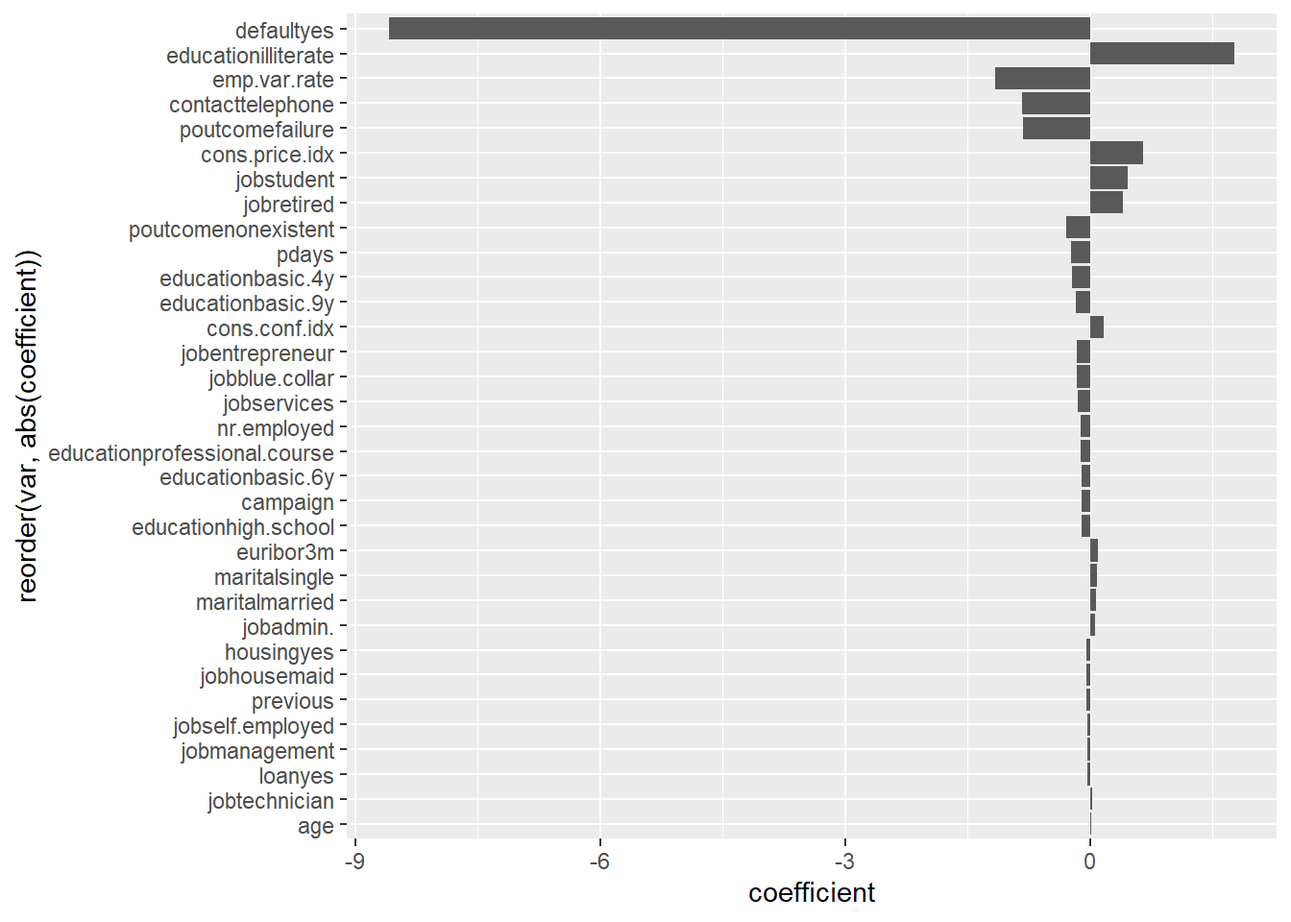
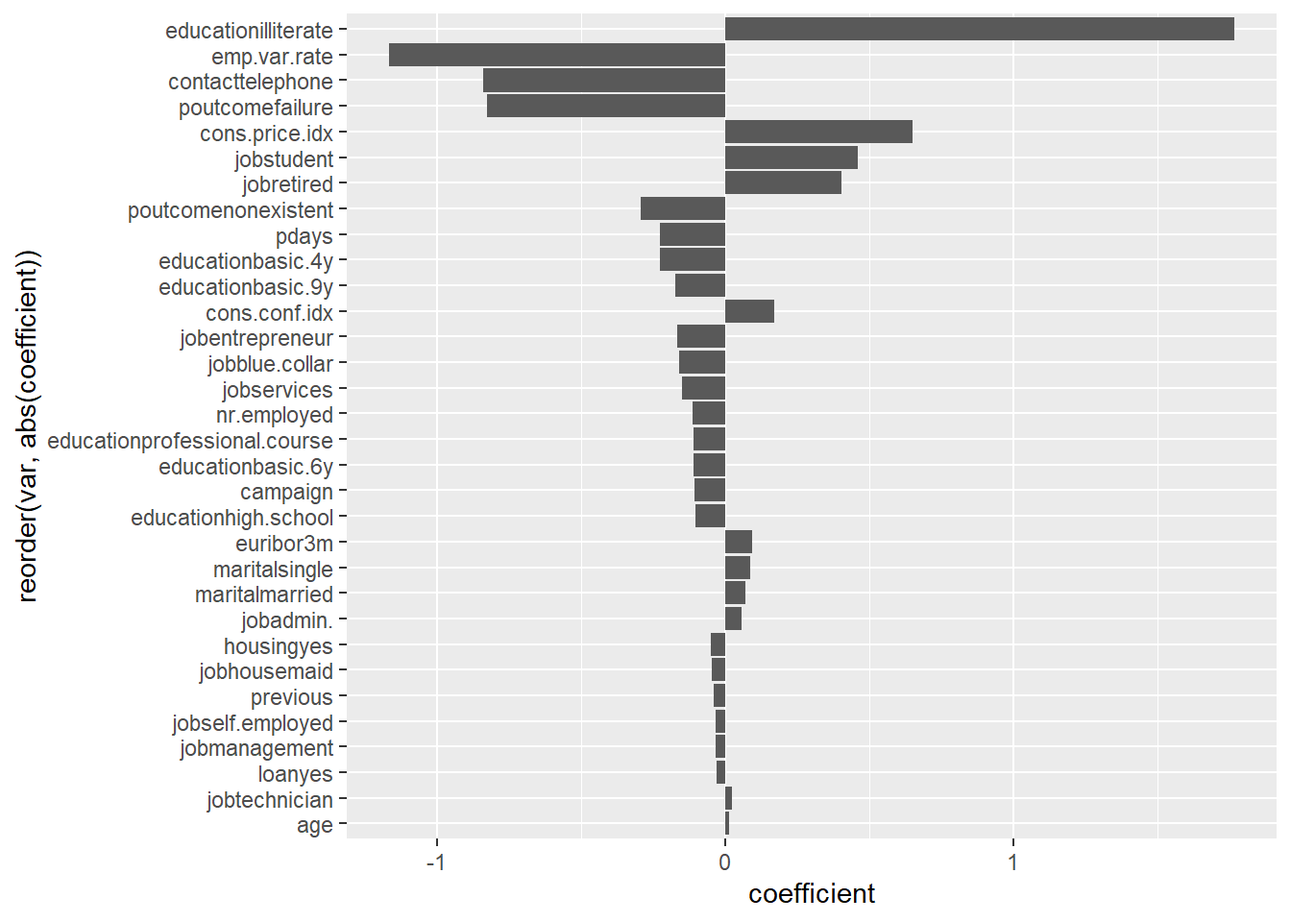
update

diff --git a/docs/logistic-regression.html b/docs/logistic-regression.html
@@ -105,13 +105,13 @@
             <section class="normal" id="section-">
 <div id="logistic-regression" class="section level1 hasAnchor" number="2">
 <h1><span class="header-section-number">Chapter 2</span> [Logistic Regression]<a href="logistic-regression.html#logistic-regression" class="anchor-section" aria-label="Anchor link to header"></a></h1>
-<p><img src="finalproj_files/figure-html/unnamed-chunk-5-1.png" width="672" />
+<p><img src="finalproj_files/figure-html/unnamed-chunk-4-1.png" width="672" />
 After the logistic regression models are built, we may access the feature importance by visualize the coefficient. The bar plot above shows the magnitude of significance for each variable with a descending order of their absolute value. It is obvious that the default value has the largest influence on the predicted probability. However, that’s mostly because of the default yes record in the data set according to the EDA part. Despite the default values, whether the person is illiterate, employment variable rate, whether the contacting is via telephone, and the outcome of previous campaign has remarkable impact on the prediction. However, the coefficient of default is too large that we actually can not assess the exact coefficient of variables by visualization; hence we may eliminate the default from the graph and get a new bar plot as follows.</p>
-<p><img src="finalproj_files/figure-html/unnamed-chunk-6-1.png" width="672" />
+<p><img src="finalproj_files/figure-html/unnamed-chunk-5-1.png" width="672" />
 From this plot, we may find that there are some variables that creates minor impact in our full regression model. Specifically speaking, in this plot,
 housingyes,, jobhousemaid, previous, jobself.employed, jobmanagement,loanyes, jobtechnician, and age have relatively small coefficient values. We will examine a reduced model without these listed variable in the following analysis.</p>
-<div class="plotly html-widget html-fill-item-overflow-hidden html-fill-item" id="htmlwidget-1ff8f7f988f083cb7554" style="width:672px;height:480px;"></div>
-<script type="application/json" data-for="htmlwidget-1ff8f7f988f083cb7554">{"x":{"data":[{"x":[1,0.99981301421092,0.992894540014959,0.959798055347794,0.860134629768138,0.62284966342558,0.454562453253553,0.387247569184742,0.334704562453254,0.291136873597607,0.256918474195961,0.243455497382199,0.232797307404637,0.213911742707554,0.18960359012715,0.169970082273747,0.152019446522064,0.132385938668661,0.118548990276739,0.107142857142857,0.0989154824233358,0.0959237097980554,0.0908750934928945,0.0869483919222139,0.0833956619296933,0.0794689603590127,0.0768511593118923,0.0740463724756918,0.0697456993268512,0.0667539267015707,0.0641361256544503,0.0613313388182498,0.0574046372475692,0.0544128646222887,0.0516080777860883,0.050299177262528,0.0486163051608078,0.0459985041136874,0.043941660433807,0.0413238593866866,0.0388930441286462,0.0362752430815258,0.0338444278234854,0.0327225130890052,0.0299177262528048,0.0286088257292446,0.0259910246821242,0.0241211667913239,0.0216903515332835,0.0200074794315632,0.018698578908003,0.0177636499626028,0.0173896783844428,0.0162677636499626,0.0157068062827225,0.0149588631264024,0.0138369483919222,0.0130890052356021,0.0119670905011219,0.0112191473448018,0.0102842183994016,0.00953627524308153,0.00897531787584144,0.00878833208676141,0.00841436050860135,0.00841436050860135,0.00804038893044129,0.00766641735228123,0.00766641735228123,0.00766641735228123,0.00710545998504114,0.00654450261780105,0.00617053103964099,0.0056095736724009,0.00504861630516081,0.00448765893792072,0.00411368735976066,0.00299177262528048,0.00261780104712042,0.00224382946896036,0.00149588631264024,0.00093492894540015,0.00037397157816006,0.00037397157816006,0.00018698578908003,0,0,0,0,0,0,0,0,0,0,0,0,0,0,0,0],"y":[1,1,0.997333333333333,0.996,0.965333333333333,0.893333333333333,0.821333333333333,0.792,0.761333333333333,0.732,0.717333333333333,0.708,0.697333333333333,0.678666666666667,0.654666666666667,0.628,0.606666666666667,0.585333333333333,0.564,0.552,0.533333333333333,0.514666666666667,0.496,0.492,0.486666666666667,0.474666666666667,0.464,0.457333333333333,0.448,0.441333333333333,0.436,0.428,0.416,0.404,0.394666666666667,0.386666666666667,0.378666666666667,0.365333333333333,0.358666666666667,0.349333333333333,0.334666666666667,0.324,0.317333333333333,0.312,0.302666666666667,0.289333333333333,0.276,0.262666666666667,0.249333333333333,0.236,0.222666666666667,0.214666666666667,0.208,0.201333333333333,0.193333333333333,0.186666666666667,0.178666666666667,0.173333333333333,0.168,0.168,0.162666666666667,0.158666666666667,0.156,0.150666666666667,0.149333333333333,0.141333333333333,0.141333333333333,0.133333333333333,0.129333333333333,0.125333333333333,0.12,0.112,0.1,0.096,0.0946666666666667,0.0853333333333333,0.076,0.0666666666666667,0.0626666666666667,0.0493333333333333,0.0373333333333333,0.0213333333333333,0.0133333333333333,0.008,0.00666666666666667,0.00266666666666667,0.00133333333333333,0,0,0,0,0,0,0,0,0,0,0,0,0,0],"text":["fpr: 1.0000000000<br />tpr: 1.000000000<br />label: 0.00","fpr: 0.9998130142<br />tpr: 1.000000000<br />label: 0.01","fpr: 0.9928945400<br />tpr: 0.997333333<br />label: 0.02","fpr: 0.9597980553<br />tpr: 0.996000000<br />label: 0.03","fpr: 0.8601346298<br />tpr: 0.965333333<br />label: 0.04","fpr: 0.6228496634<br />tpr: 0.893333333<br />label: 0.05","fpr: 0.4545624533<br />tpr: 0.821333333<br />label: 0.06","fpr: 0.3872475692<br />tpr: 0.792000000<br />label: 0.07","fpr: 0.3347045625<br />tpr: 0.761333333<br />label: 0.08","fpr: 0.2911368736<br />tpr: 0.732000000<br />label: 0.09","fpr: 0.2569184742<br />tpr: 0.717333333<br />label: 0.10","fpr: 0.2434554974<br />tpr: 0.708000000<br />label: 0.11","fpr: 0.2327973074<br />tpr: 0.697333333<br />label: 0.12","fpr: 0.2139117427<br />tpr: 0.678666667<br />label: 0.13","fpr: 0.1896035901<br />tpr: 0.654666667<br />label: 0.14","fpr: 0.1699700823<br />tpr: 0.628000000<br />label: 0.15","fpr: 0.1520194465<br />tpr: 0.606666667<br />label: 0.16","fpr: 0.1323859387<br />tpr: 0.585333333<br />label: 0.17","fpr: 0.1185489903<br />tpr: 0.564000000<br />label: 0.18","fpr: 0.1071428571<br />tpr: 0.552000000<br />label: 0.19","fpr: 0.0989154824<br />tpr: 0.533333333<br />label: 0.20","fpr: 0.0959237098<br />tpr: 0.514666667<br />label: 0.21","fpr: 0.0908750935<br />tpr: 0.496000000<br />label: 0.22","fpr: 0.0869483919<br />tpr: 0.492000000<br />label: 0.23","fpr: 0.0833956619<br />tpr: 0.486666667<br />label: 0.24","fpr: 0.0794689604<br />tpr: 0.474666667<br />label: 0.25","fpr: 0.0768511593<br />tpr: 0.464000000<br />label: 0.26","fpr: 0.0740463725<br />tpr: 0.457333333<br />label: 0.27","fpr: 0.0697456993<br />tpr: 0.448000000<br />label: 0.28","fpr: 0.0667539267<br />tpr: 0.441333333<br />label: 0.29","fpr: 0.0641361257<br />tpr: 0.436000000<br />label: 0.30","fpr: 0.0613313388<br />tpr: 0.428000000<br />label: 0.31","fpr: 0.0574046372<br />tpr: 0.416000000<br />label: 0.32","fpr: 0.0544128646<br />tpr: 0.404000000<br />label: 0.33","fpr: 0.0516080778<br />tpr: 0.394666667<br />label: 0.34","fpr: 0.0502991773<br />tpr: 0.386666667<br />label: 0.35","fpr: 0.0486163052<br />tpr: 0.378666667<br />label: 0.36","fpr: 0.0459985041<br />tpr: 0.365333333<br />label: 0.37","fpr: 0.0439416604<br />tpr: 0.358666667<br />label: 0.38","fpr: 0.0413238594<br />tpr: 0.349333333<br />label: 0.39","fpr: 0.0388930441<br />tpr: 0.334666667<br />label: 0.40","fpr: 0.0362752431<br />tpr: 0.324000000<br />label: 0.41","fpr: 0.0338444278<br />tpr: 0.317333333<br />label: 0.42","fpr: 0.0327225131<br />tpr: 0.312000000<br />label: 0.43","fpr: 0.0299177263<br />tpr: 0.302666667<br />label: 0.44","fpr: 0.0286088257<br />tpr: 0.289333333<br />label: 0.45","fpr: 0.0259910247<br />tpr: 0.276000000<br />label: 0.46","fpr: 0.0241211668<br />tpr: 0.262666667<br />label: 0.47","fpr: 0.0216903515<br />tpr: 0.249333333<br />label: 0.48","fpr: 0.0200074794<br />tpr: 0.236000000<br />label: 0.49","fpr: 0.0186985789<br />tpr: 0.222666667<br />label: 0.50","fpr: 0.0177636500<br />tpr: 0.214666667<br />label: 0.51","fpr: 0.0173896784<br />tpr: 0.208000000<br />label: 0.52","fpr: 0.0162677636<br />tpr: 0.201333333<br />label: 0.53","fpr: 0.0157068063<br />tpr: 0.193333333<br />label: 0.54","fpr: 0.0149588631<br />tpr: 0.186666667<br />label: 0.55","fpr: 0.0138369484<br />tpr: 0.178666667<br />label: 0.56","fpr: 0.0130890052<br />tpr: 0.173333333<br />label: 0.57","fpr: 0.0119670905<br />tpr: 0.168000000<br />label: 0.58","fpr: 0.0112191473<br />tpr: 0.168000000<br />label: 0.59","fpr: 0.0102842184<br />tpr: 0.162666667<br />label: 0.60","fpr: 0.0095362752<br />tpr: 0.158666667<br />label: 0.61","fpr: 0.0089753179<br />tpr: 0.156000000<br />label: 0.62","fpr: 0.0087883321<br />tpr: 0.150666667<br />label: 0.63","fpr: 0.0084143605<br />tpr: 0.149333333<br />label: 0.64","fpr: 0.0084143605<br />tpr: 0.141333333<br />label: 0.65","fpr: 0.0080403889<br />tpr: 0.141333333<br />label: 0.66","fpr: 0.0076664174<br />tpr: 0.133333333<br />label: 0.67","fpr: 0.0076664174<br />tpr: 0.129333333<br />label: 0.68","fpr: 0.0076664174<br />tpr: 0.125333333<br />label: 0.69","fpr: 0.0071054600<br />tpr: 0.120000000<br />label: 0.70","fpr: 0.0065445026<br />tpr: 0.112000000<br />label: 0.71","fpr: 0.0061705310<br />tpr: 0.100000000<br />label: 0.72","fpr: 0.0056095737<br />tpr: 0.096000000<br />label: 0.73","fpr: 0.0050486163<br />tpr: 0.094666667<br />label: 0.74","fpr: 0.0044876589<br />tpr: 0.085333333<br />label: 0.75","fpr: 0.0041136874<br />tpr: 0.076000000<br />label: 0.76","fpr: 0.0029917726<br />tpr: 0.066666667<br />label: 0.77","fpr: 0.0026178010<br />tpr: 0.062666667<br />label: 0.78","fpr: 0.0022438295<br />tpr: 0.049333333<br />label: 0.79","fpr: 0.0014958863<br />tpr: 0.037333333<br />label: 0.80","fpr: 0.0009349289<br />tpr: 0.021333333<br />label: 0.81","fpr: 0.0003739716<br />tpr: 0.013333333<br />label: 0.82","fpr: 0.0003739716<br />tpr: 0.008000000<br />label: 0.83","fpr: 0.0001869858<br />tpr: 0.006666667<br />label: 0.84","fpr: 0.0000000000<br />tpr: 0.002666667<br />label: 0.85","fpr: 0.0000000000<br />tpr: 0.001333333<br />label: 0.86","fpr: 0.0000000000<br />tpr: 0.000000000<br />label: 0.87","fpr: 0.0000000000<br />tpr: 0.000000000<br />label: 0.88","fpr: 0.0000000000<br />tpr: 0.000000000<br />label: 0.89","fpr: 0.0000000000<br />tpr: 0.000000000<br />label: 0.90","fpr: 0.0000000000<br />tpr: 0.000000000<br />label: 0.91","fpr: 0.0000000000<br />tpr: 0.000000000<br />label: 0.92","fpr: 0.0000000000<br />tpr: 0.000000000<br />label: 0.93","fpr: 0.0000000000<br />tpr: 0.000000000<br />label: 0.94","fpr: 0.0000000000<br />tpr: 0.000000000<br />label: 0.95","fpr: 0.0000000000<br />tpr: 0.000000000<br />label: 0.96","fpr: 0.0000000000<br />tpr: 0.000000000<br />label: 0.97","fpr: 0.0000000000<br />tpr: 0.000000000<br />label: 0.98","fpr: 0.0000000000<br />tpr: 0.000000000<br />label: 0.99","fpr: 0.0000000000<br />tpr: 0.000000000<br />label: 1.00"],"type":"scatter","mode":"markers+lines","marker":{"autocolorscale":false,"color":"rgba(0,0,0,1)","opacity":1,"size":5.66929133858268,"symbol":"circle","line":{"width":1.88976377952756,"color":"rgba(0,0,0,1)"}},"hoveron":"points","showlegend":false,"xaxis":"x","yaxis":"y","hoverinfo":"text","line":{"width":1.88976377952756,"color":"rgba(0,0,0,1)","dash":"solid"},"frame":null},{"showlegend":false,"xaxis":"x","yaxis":"y","hoverinfo":"text","mode":"","frame":null}],"layout":{"margin":{"t":26.2283105022831,"r":7.30593607305936,"b":40.1826484018265,"l":48.9497716894977},"plot_bgcolor":"rgba(235,235,235,1)","paper_bgcolor":"rgba(255,255,255,1)","font":{"color":"rgba(0,0,0,1)","family":"","size":14.6118721461187},"xaxis":{"domain":[0,1],"automargin":true,"type":"linear","autorange":false,"range":[-0.05,1.05],"tickmode":"array","ticktext":["0.00","0.25","0.50","0.75","1.00"],"tickvals":[0,0.25,0.5,0.75,1],"categoryorder":"array","categoryarray":["0.00","0.25","0.50","0.75","1.00"],"nticks":null,"ticks":"outside","tickcolor":"rgba(51,51,51,1)","ticklen":3.65296803652968,"tickwidth":0.66417600664176,"showticklabels":true,"tickfont":{"color":"rgba(77,77,77,1)","family":"","size":11.689497716895},"tickangle":-0,"showline":false,"linecolor":null,"linewidth":0,"showgrid":true,"gridcolor":"rgba(255,255,255,1)","gridwidth":0.66417600664176,"zeroline":false,"anchor":"y","title":{"text":"fpr","font":{"color":"rgba(0,0,0,1)","family":"","size":14.6118721461187}},"hoverformat":".2f"},"yaxis":{"domain":[0,1],"automargin":true,"type":"linear","autorange":false,"range":[-0.05,1.05],"tickmode":"array","ticktext":["0.00","0.25","0.50","0.75","1.00"],"tickvals":[0,0.25,0.5,0.75,1],"categoryorder":"array","categoryarray":["0.00","0.25","0.50","0.75","1.00"],"nticks":null,"ticks":"outside","tickcolor":"rgba(51,51,51,1)","ticklen":3.65296803652968,"tickwidth":0.66417600664176,"showticklabels":true,"tickfont":{"color":"rgba(77,77,77,1)","family":"","size":11.689497716895},"tickangle":-0,"showline":false,"linecolor":null,"linewidth":0,"showgrid":true,"gridcolor":"rgba(255,255,255,1)","gridwidth":0.66417600664176,"zeroline":false,"anchor":"x","title":{"text":"tpr","font":{"color":"rgba(0,0,0,1)","family":"","size":14.6118721461187}},"hoverformat":".2f"},"shapes":[{"type":"rect","fillcolor":null,"line":{"color":null,"width":0,"linetype":[]},"yref":"paper","xref":"paper","x0":0,"x1":1,"y0":0,"y1":1}],"showlegend":false,"legend":{"bgcolor":"rgba(255,255,255,1)","bordercolor":"transparent","borderwidth":1.88976377952756,"font":{"color":"rgba(0,0,0,1)","family":"","size":11.689497716895}},"hovermode":"closest","barmode":"relative"},"config":{"doubleClick":"reset","modeBarButtonsToAdd":["hoverclosest","hovercompare"],"showSendToCloud":false},"source":"A","attrs":{"79682d927d82":{"x":{},"y":{},"label":{},"type":"scatter"},"79683b1c3556":{"x":{},"y":{},"label":{}},"7968485763c3":{"x":{},"y":{},"label":{}}},"cur_data":"79682d927d82","visdat":{"79682d927d82":["function (y) ","x"],"79683b1c3556":["function (y) ","x"],"7968485763c3":["function (y) ","x"]},"highlight":{"on":"plotly_click","persistent":false,"dynamic":false,"selectize":false,"opacityDim":0.2,"selected":{"opacity":1},"debounce":0},"shinyEvents":["plotly_hover","plotly_click","plotly_selected","plotly_relayout","plotly_brushed","plotly_brushing","plotly_clickannotation","plotly_doubleclick","plotly_deselect","plotly_afterplot","plotly_sunburstclick"],"base_url":"https://plot.ly"},"evals":[],"jsHooks":[]}</script>
+<div class="plotly html-widget html-fill-item-overflow-hidden html-fill-item" id="htmlwidget-45f9acc706e7623ea08e" style="width:672px;height:480px;"></div>
+<script type="application/json" data-for="htmlwidget-45f9acc706e7623ea08e">{"x":{"data":[{"x":[1,0.99981301421092,0.992894540014959,0.959798055347794,0.860134629768138,0.62284966342558,0.454562453253553,0.387247569184742,0.334704562453254,0.291136873597607,0.256918474195961,0.243455497382199,0.232797307404637,0.213911742707554,0.18960359012715,0.169970082273747,0.152019446522064,0.132385938668661,0.118548990276739,0.107142857142857,0.0989154824233358,0.0959237097980554,0.0908750934928945,0.0869483919222139,0.0833956619296933,0.0794689603590127,0.0768511593118923,0.0740463724756918,0.0697456993268512,0.0667539267015707,0.0641361256544503,0.0613313388182498,0.0574046372475692,0.0544128646222887,0.0516080777860883,0.050299177262528,0.0486163051608078,0.0459985041136874,0.043941660433807,0.0413238593866866,0.0388930441286462,0.0362752430815258,0.0338444278234854,0.0327225130890052,0.0299177262528048,0.0286088257292446,0.0259910246821242,0.0241211667913239,0.0216903515332835,0.0200074794315632,0.018698578908003,0.0177636499626028,0.0173896783844428,0.0162677636499626,0.0157068062827225,0.0149588631264024,0.0138369483919222,0.0130890052356021,0.0119670905011219,0.0112191473448018,0.0102842183994016,0.00953627524308153,0.00897531787584144,0.00878833208676141,0.00841436050860135,0.00841436050860135,0.00804038893044129,0.00766641735228123,0.00766641735228123,0.00766641735228123,0.00710545998504114,0.00654450261780105,0.00617053103964099,0.0056095736724009,0.00504861630516081,0.00448765893792072,0.00411368735976066,0.00299177262528048,0.00261780104712042,0.00224382946896036,0.00149588631264024,0.00093492894540015,0.00037397157816006,0.00037397157816006,0.00018698578908003,0,0,0,0,0,0,0,0,0,0,0,0,0,0,0,0],"y":[1,1,0.997333333333333,0.996,0.965333333333333,0.893333333333333,0.821333333333333,0.792,0.761333333333333,0.732,0.717333333333333,0.708,0.697333333333333,0.678666666666667,0.654666666666667,0.628,0.606666666666667,0.585333333333333,0.564,0.552,0.533333333333333,0.514666666666667,0.496,0.492,0.486666666666667,0.474666666666667,0.464,0.457333333333333,0.448,0.441333333333333,0.436,0.428,0.416,0.404,0.394666666666667,0.386666666666667,0.378666666666667,0.365333333333333,0.358666666666667,0.349333333333333,0.334666666666667,0.324,0.317333333333333,0.312,0.302666666666667,0.289333333333333,0.276,0.262666666666667,0.249333333333333,0.236,0.222666666666667,0.214666666666667,0.208,0.201333333333333,0.193333333333333,0.186666666666667,0.178666666666667,0.173333333333333,0.168,0.168,0.162666666666667,0.158666666666667,0.156,0.150666666666667,0.149333333333333,0.141333333333333,0.141333333333333,0.133333333333333,0.129333333333333,0.125333333333333,0.12,0.112,0.1,0.096,0.0946666666666667,0.0853333333333333,0.076,0.0666666666666667,0.0626666666666667,0.0493333333333333,0.0373333333333333,0.0213333333333333,0.0133333333333333,0.008,0.00666666666666667,0.00266666666666667,0.00133333333333333,0,0,0,0,0,0,0,0,0,0,0,0,0,0],"text":["fpr: 1.0000000000<br />tpr: 1.000000000<br />label: 0.00","fpr: 0.9998130142<br />tpr: 1.000000000<br />label: 0.01","fpr: 0.9928945400<br />tpr: 0.997333333<br />label: 0.02","fpr: 0.9597980553<br />tpr: 0.996000000<br />label: 0.03","fpr: 0.8601346298<br />tpr: 0.965333333<br />label: 0.04","fpr: 0.6228496634<br />tpr: 0.893333333<br />label: 0.05","fpr: 0.4545624533<br />tpr: 0.821333333<br />label: 0.06","fpr: 0.3872475692<br />tpr: 0.792000000<br />label: 0.07","fpr: 0.3347045625<br />tpr: 0.761333333<br />label: 0.08","fpr: 0.2911368736<br />tpr: 0.732000000<br />label: 0.09","fpr: 0.2569184742<br />tpr: 0.717333333<br />label: 0.10","fpr: 0.2434554974<br />tpr: 0.708000000<br />label: 0.11","fpr: 0.2327973074<br />tpr: 0.697333333<br />label: 0.12","fpr: 0.2139117427<br />tpr: 0.678666667<br />label: 0.13","fpr: 0.1896035901<br />tpr: 0.654666667<br />label: 0.14","fpr: 0.1699700823<br />tpr: 0.628000000<br />label: 0.15","fpr: 0.1520194465<br />tpr: 0.606666667<br />label: 0.16","fpr: 0.1323859387<br />tpr: 0.585333333<br />label: 0.17","fpr: 0.1185489903<br />tpr: 0.564000000<br />label: 0.18","fpr: 0.1071428571<br />tpr: 0.552000000<br />label: 0.19","fpr: 0.0989154824<br />tpr: 0.533333333<br />label: 0.20","fpr: 0.0959237098<br />tpr: 0.514666667<br />label: 0.21","fpr: 0.0908750935<br />tpr: 0.496000000<br />label: 0.22","fpr: 0.0869483919<br />tpr: 0.492000000<br />label: 0.23","fpr: 0.0833956619<br />tpr: 0.486666667<br />label: 0.24","fpr: 0.0794689604<br />tpr: 0.474666667<br />label: 0.25","fpr: 0.0768511593<br />tpr: 0.464000000<br />label: 0.26","fpr: 0.0740463725<br />tpr: 0.457333333<br />label: 0.27","fpr: 0.0697456993<br />tpr: 0.448000000<br />label: 0.28","fpr: 0.0667539267<br />tpr: 0.441333333<br />label: 0.29","fpr: 0.0641361257<br />tpr: 0.436000000<br />label: 0.30","fpr: 0.0613313388<br />tpr: 0.428000000<br />label: 0.31","fpr: 0.0574046372<br />tpr: 0.416000000<br />label: 0.32","fpr: 0.0544128646<br />tpr: 0.404000000<br />label: 0.33","fpr: 0.0516080778<br />tpr: 0.394666667<br />label: 0.34","fpr: 0.0502991773<br />tpr: 0.386666667<br />label: 0.35","fpr: 0.0486163052<br />tpr: 0.378666667<br />label: 0.36","fpr: 0.0459985041<br />tpr: 0.365333333<br />label: 0.37","fpr: 0.0439416604<br />tpr: 0.358666667<br />label: 0.38","fpr: 0.0413238594<br />tpr: 0.349333333<br />label: 0.39","fpr: 0.0388930441<br />tpr: 0.334666667<br />label: 0.40","fpr: 0.0362752431<br />tpr: 0.324000000<br />label: 0.41","fpr: 0.0338444278<br />tpr: 0.317333333<br />label: 0.42","fpr: 0.0327225131<br />tpr: 0.312000000<br />label: 0.43","fpr: 0.0299177263<br />tpr: 0.302666667<br />label: 0.44","fpr: 0.0286088257<br />tpr: 0.289333333<br />label: 0.45","fpr: 0.0259910247<br />tpr: 0.276000000<br />label: 0.46","fpr: 0.0241211668<br />tpr: 0.262666667<br />label: 0.47","fpr: 0.0216903515<br />tpr: 0.249333333<br />label: 0.48","fpr: 0.0200074794<br />tpr: 0.236000000<br />label: 0.49","fpr: 0.0186985789<br />tpr: 0.222666667<br />label: 0.50","fpr: 0.0177636500<br />tpr: 0.214666667<br />label: 0.51","fpr: 0.0173896784<br />tpr: 0.208000000<br />label: 0.52","fpr: 0.0162677636<br />tpr: 0.201333333<br />label: 0.53","fpr: 0.0157068063<br />tpr: 0.193333333<br />label: 0.54","fpr: 0.0149588631<br />tpr: 0.186666667<br />label: 0.55","fpr: 0.0138369484<br />tpr: 0.178666667<br />label: 0.56","fpr: 0.0130890052<br />tpr: 0.173333333<br />label: 0.57","fpr: 0.0119670905<br />tpr: 0.168000000<br />label: 0.58","fpr: 0.0112191473<br />tpr: 0.168000000<br />label: 0.59","fpr: 0.0102842184<br />tpr: 0.162666667<br />label: 0.60","fpr: 0.0095362752<br />tpr: 0.158666667<br />label: 0.61","fpr: 0.0089753179<br />tpr: 0.156000000<br />label: 0.62","fpr: 0.0087883321<br />tpr: 0.150666667<br />label: 0.63","fpr: 0.0084143605<br />tpr: 0.149333333<br />label: 0.64","fpr: 0.0084143605<br />tpr: 0.141333333<br />label: 0.65","fpr: 0.0080403889<br />tpr: 0.141333333<br />label: 0.66","fpr: 0.0076664174<br />tpr: 0.133333333<br />label: 0.67","fpr: 0.0076664174<br />tpr: 0.129333333<br />label: 0.68","fpr: 0.0076664174<br />tpr: 0.125333333<br />label: 0.69","fpr: 0.0071054600<br />tpr: 0.120000000<br />label: 0.70","fpr: 0.0065445026<br />tpr: 0.112000000<br />label: 0.71","fpr: 0.0061705310<br />tpr: 0.100000000<br />label: 0.72","fpr: 0.0056095737<br />tpr: 0.096000000<br />label: 0.73","fpr: 0.0050486163<br />tpr: 0.094666667<br />label: 0.74","fpr: 0.0044876589<br />tpr: 0.085333333<br />label: 0.75","fpr: 0.0041136874<br />tpr: 0.076000000<br />label: 0.76","fpr: 0.0029917726<br />tpr: 0.066666667<br />label: 0.77","fpr: 0.0026178010<br />tpr: 0.062666667<br />label: 0.78","fpr: 0.0022438295<br />tpr: 0.049333333<br />label: 0.79","fpr: 0.0014958863<br />tpr: 0.037333333<br />label: 0.80","fpr: 0.0009349289<br />tpr: 0.021333333<br />label: 0.81","fpr: 0.0003739716<br />tpr: 0.013333333<br />label: 0.82","fpr: 0.0003739716<br />tpr: 0.008000000<br />label: 0.83","fpr: 0.0001869858<br />tpr: 0.006666667<br />label: 0.84","fpr: 0.0000000000<br />tpr: 0.002666667<br />label: 0.85","fpr: 0.0000000000<br />tpr: 0.001333333<br />label: 0.86","fpr: 0.0000000000<br />tpr: 0.000000000<br />label: 0.87","fpr: 0.0000000000<br />tpr: 0.000000000<br />label: 0.88","fpr: 0.0000000000<br />tpr: 0.000000000<br />label: 0.89","fpr: 0.0000000000<br />tpr: 0.000000000<br />label: 0.90","fpr: 0.0000000000<br />tpr: 0.000000000<br />label: 0.91","fpr: 0.0000000000<br />tpr: 0.000000000<br />label: 0.92","fpr: 0.0000000000<br />tpr: 0.000000000<br />label: 0.93","fpr: 0.0000000000<br />tpr: 0.000000000<br />label: 0.94","fpr: 0.0000000000<br />tpr: 0.000000000<br />label: 0.95","fpr: 0.0000000000<br />tpr: 0.000000000<br />label: 0.96","fpr: 0.0000000000<br />tpr: 0.000000000<br />label: 0.97","fpr: 0.0000000000<br />tpr: 0.000000000<br />label: 0.98","fpr: 0.0000000000<br />tpr: 0.000000000<br />label: 0.99","fpr: 0.0000000000<br />tpr: 0.000000000<br />label: 1.00"],"type":"scatter","mode":"markers+lines","marker":{"autocolorscale":false,"color":"rgba(0,0,0,1)","opacity":1,"size":5.66929133858268,"symbol":"circle","line":{"width":1.88976377952756,"color":"rgba(0,0,0,1)"}},"hoveron":"points","showlegend":false,"xaxis":"x","yaxis":"y","hoverinfo":"text","line":{"width":1.88976377952756,"color":"rgba(0,0,0,1)","dash":"solid"},"frame":null},{"showlegend":false,"xaxis":"x","yaxis":"y","hoverinfo":"text","mode":"","frame":null}],"layout":{"margin":{"t":26.2283105022831,"r":7.30593607305936,"b":40.1826484018265,"l":48.9497716894977},"plot_bgcolor":"rgba(235,235,235,1)","paper_bgcolor":"rgba(255,255,255,1)","font":{"color":"rgba(0,0,0,1)","family":"","size":14.6118721461187},"xaxis":{"domain":[0,1],"automargin":true,"type":"linear","autorange":false,"range":[-0.05,1.05],"tickmode":"array","ticktext":["0.00","0.25","0.50","0.75","1.00"],"tickvals":[0,0.25,0.5,0.75,1],"categoryorder":"array","categoryarray":["0.00","0.25","0.50","0.75","1.00"],"nticks":null,"ticks":"outside","tickcolor":"rgba(51,51,51,1)","ticklen":3.65296803652968,"tickwidth":0.66417600664176,"showticklabels":true,"tickfont":{"color":"rgba(77,77,77,1)","family":"","size":11.689497716895},"tickangle":-0,"showline":false,"linecolor":null,"linewidth":0,"showgrid":true,"gridcolor":"rgba(255,255,255,1)","gridwidth":0.66417600664176,"zeroline":false,"anchor":"y","title":{"text":"fpr","font":{"color":"rgba(0,0,0,1)","family":"","size":14.6118721461187}},"hoverformat":".2f"},"yaxis":{"domain":[0,1],"automargin":true,"type":"linear","autorange":false,"range":[-0.05,1.05],"tickmode":"array","ticktext":["0.00","0.25","0.50","0.75","1.00"],"tickvals":[0,0.25,0.5,0.75,1],"categoryorder":"array","categoryarray":["0.00","0.25","0.50","0.75","1.00"],"nticks":null,"ticks":"outside","tickcolor":"rgba(51,51,51,1)","ticklen":3.65296803652968,"tickwidth":0.66417600664176,"showticklabels":true,"tickfont":{"color":"rgba(77,77,77,1)","family":"","size":11.689497716895},"tickangle":-0,"showline":false,"linecolor":null,"linewidth":0,"showgrid":true,"gridcolor":"rgba(255,255,255,1)","gridwidth":0.66417600664176,"zeroline":false,"anchor":"x","title":{"text":"tpr","font":{"color":"rgba(0,0,0,1)","family":"","size":14.6118721461187}},"hoverformat":".2f"},"shapes":[{"type":"rect","fillcolor":null,"line":{"color":null,"width":0,"linetype":[]},"yref":"paper","xref":"paper","x0":0,"x1":1,"y0":0,"y1":1}],"showlegend":false,"legend":{"bgcolor":"rgba(255,255,255,1)","bordercolor":"transparent","borderwidth":1.88976377952756,"font":{"color":"rgba(0,0,0,1)","family":"","size":11.689497716895}},"hovermode":"closest","barmode":"relative"},"config":{"doubleClick":"reset","modeBarButtonsToAdd":["hoverclosest","hovercompare"],"showSendToCloud":false},"source":"A","attrs":{"809c41cc2a4d":{"x":{},"y":{},"label":{},"type":"scatter"},"809c6224189f":{"x":{},"y":{},"label":{}},"809c7ba169cb":{"x":{},"y":{},"label":{}}},"cur_data":"809c41cc2a4d","visdat":{"809c41cc2a4d":["function (y) ","x"],"809c6224189f":["function (y) ","x"],"809c7ba169cb":["function (y) ","x"]},"highlight":{"on":"plotly_click","persistent":false,"dynamic":false,"selectize":false,"opacityDim":0.2,"selected":{"opacity":1},"debounce":0},"shinyEvents":["plotly_hover","plotly_click","plotly_selected","plotly_relayout","plotly_brushed","plotly_brushing","plotly_clickannotation","plotly_doubleclick","plotly_deselect","plotly_afterplot","plotly_sunburstclick"],"base_url":"https://plot.ly"},"evals":[],"jsHooks":[]}</script>
 
 </div>
             </section>
